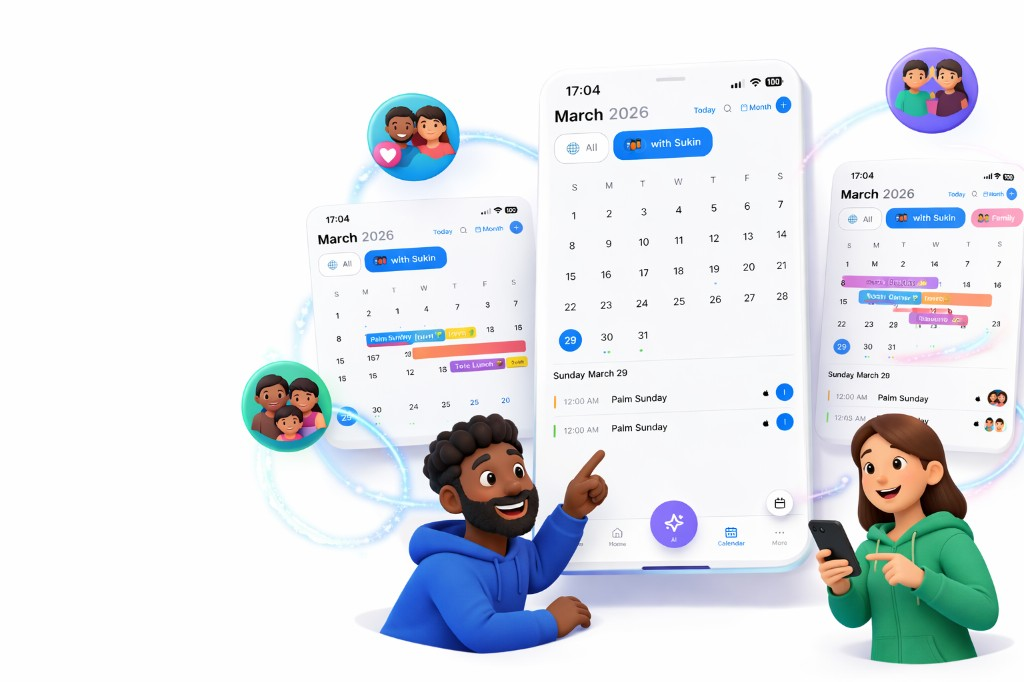
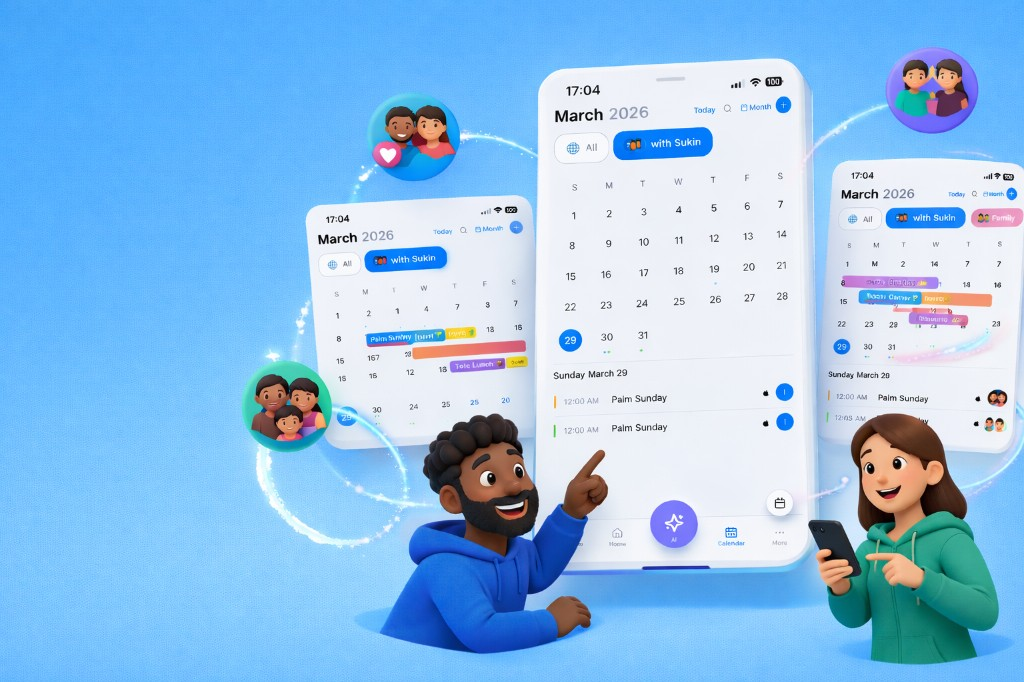
update portfolio final V5

diff --git a/index.html b/index.html
@@ -33,6 +33,7 @@ body {
   background-size: cover;
   background-position: right 90%;
   background-repeat: no-repeat;
+  border-bottom: 1px solid #d2d2d7;
 }
 
 .hero-content {
@@ -364,6 +365,7 @@ body {
   background-repeat: no-repeat;
   height: 52vh;
   min-height: 52vh;
+  border-bottom: 1px solid #424245;
 }
 
 .dark .hero::before {
